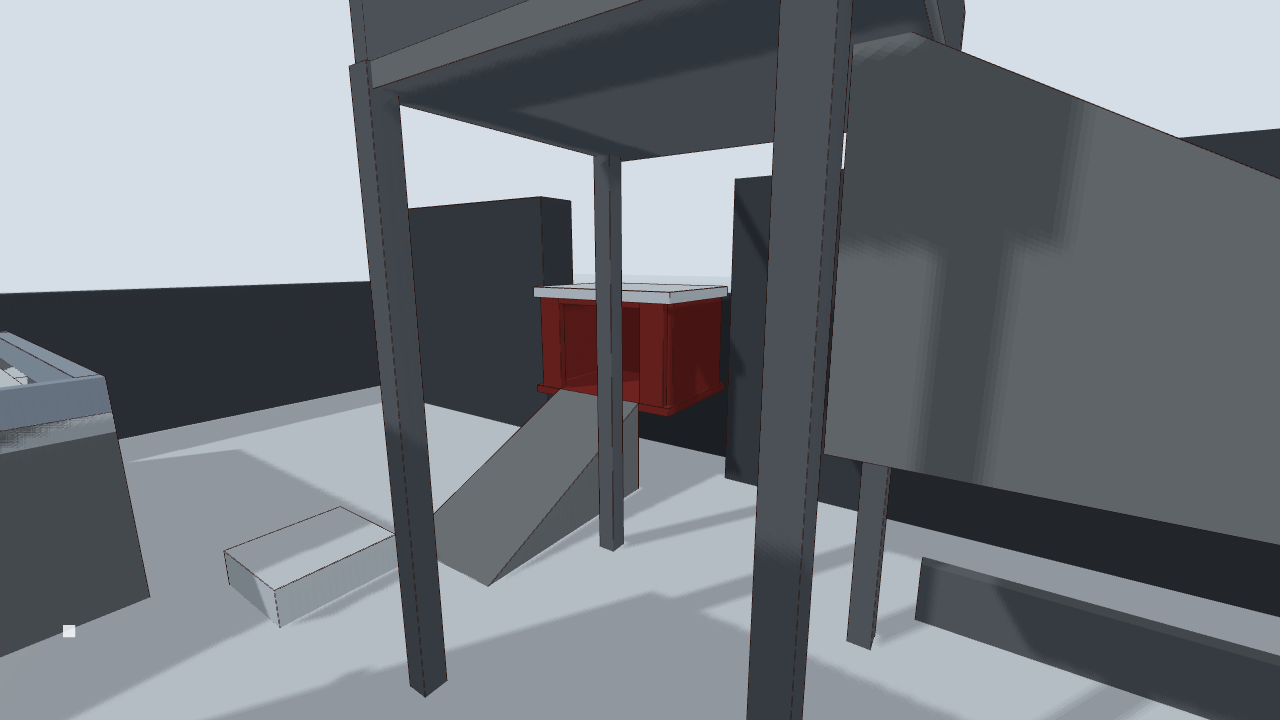
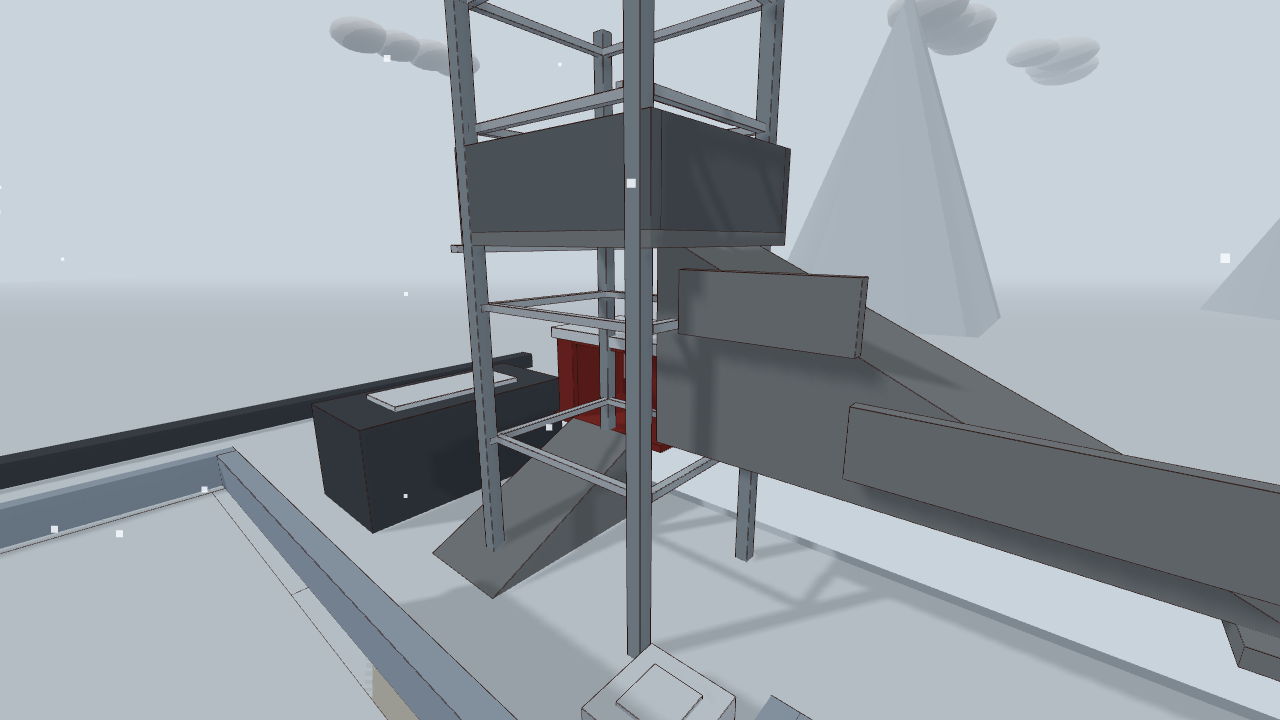
Fecha a rodada 3 do Posto Nevasca com o miolo denso da aérea.
O lab e a Sala Fria descem 12 m, as alas colam os telhados, o muro oeste some e a rampa da torre deixa de enxergar o sudeste.

diff --git a/maps.js b/maps.js
@@ -539,69 +539,97 @@ export const MAPS = [];
   };
   const C = (x, z, s = 1.3, h = 1.15, c = METAL2, y0 = 0) => boxes.push(crate(x, z, s, h, c, y0));
 
-  // encosta oeste: a borda curva até 5 m para fora, pico em z=-2 (y do dossiê = 62).
+  // encosta oeste: curva de até 5 m, pico em z=-2 (y do pesquisador = 62). Só a borda baixa é visível.
   const bulge = (z) => { const t = (z + 2) / 28; return (t <= -1 || t >= 1) ? 0 : 5 * (1 - t * t); };
-  const voids = [];
+  const voids = [], slopes = [];
   for (let z = -34; z < 28; z += 6) {
     const z1 = Math.min(28, z + 6);
     const edge = -24 - Math.max(bulge(z), bulge(z + 3), bulge(z1));
-    boxes.push(B(edge - 0.5, z, edge, z1, 1.15, ROCK)); // borda de 1,15 m
-    const gap = z1 > -8 && z < 4; // trecho em que dá para cair de verdade
-    if (!gap) boxes.push({ b: [edge - 0.4, 0, z, edge + 0.08, 4, z1], hide: true }); // colisor invisível de 4 m
-    const inner = edge + 3.5;
-    if (!(z >= 12 && z < 20)) boxes.push(B(inner, z, inner + 0.28, z1, 2.15, METAL2)); // fecha a corda reta
-    voids.push([-31, z, edge - 0.15, z1]);
+    boxes.push(B(edge - 0.55, z, edge + 0.15, z1, 1.15, '#7a828c')); // borda de rocha, 1,15 m, mais clara que o muro antigo
+    const gap = z1 > -8 && z < 4; // no pico dá para cair
+    if (!gap) boxes.push({ b: [edge - 0.35, 0, z, edge + 0.05, 4, z1], hide: true });
+    voids.push([-31, z, edge - 0.2, z1]);
+    slopes.push({ x0: edge - 16, y0: -30, z0: z, x1: edge - 0.15, y1: 0.15, z1, axis: 'x', dir: 1 });
   }
   voids.push([-31, 28, -24.2, 60], [-31, -60, -24.2, -34]);
-  boxes.push(B(26.4, -58, 30.6, 58, 4.5, ROCK)); // fecha o leste que o size maior abriu
-  boxes.push(B(-25.6, -2.15, -25.28, -1.85, 2.5, METAL2)); // mastro da placa PENHASCO
-  // rochas de 5 × 4 × 3,5 m: y45 → z=15, y92 → z=-32 (cortam a visada)
-  boxes.push(B(-27.2, 13, -16.2, 17, 4.2, ROCK), B(-26, -34, -16, -30, 4.2, ROCK));
-  boxes.push(B(-26, -10, -17, -6, 4.2, ROCK), B(-22, 46, -16.2, 49.2, 3.2, ROCK), B(-24, -54, -16.2, -50, 3.2, ROCK));
-  boxes.push(B(-12, 4, -5, 10, 2.8, ROCK), B(-22, 18, -15, 24, 2.8, ROCK), B(2, -38, 8, -33, 2.4, ROCK));
-  for (const z of [22, 8, -4, -16]) boxes.push(B(-23.2, z, -21.6, z + 1.4, 1.0, SNOW2)); // cobertura de 1 m a cada ~12–14 m
+  slopes.push({ x0: -31, y0: -30, z0: 28, x1: -24.3, y1: 0.15, z1: 58, axis: 'x', dir: 1 });
+  slopes.push({ x0: -31, y0: -30, z0: -58, x1: -24.3, y1: 0.15, z1: -34, axis: 'x', dir: 1 });
+  boxes.push(B(26.6, -58, 30.5, 58, 1.15, ROCK)); // leste: borda baixa, não um muro
+  // mastro da placa, na borda do pico (edge em z=-2 é -29)
+  boxes.push(B(-28.85, -2.2, -28.55, -1.8, 2.55, METAL));
+  const rock = (x0, z0, x1, z1, h) => {
+    const cx = (x0 + x1) / 2, cz = (z0 + z1) / 2, sx = (x1 - x0) / 2, sz = (z1 - z0) / 2;
+    boxes.push(B(x0, z0, x1, z1, Math.max(3.05, h * 0.72), ROCK));
+    boxes.push(B(cx - sx * 0.7, cz - sz * 0.7, cx + sx * 0.7, cz + sz * 0.7, h * 0.32, '#5c636c', h * 0.5));
+    boxes.push(B(cx - sx * 0.4, cz - sz * 0.4, cx + sx * 0.4, cz + sz * 0.4, h * 0.2, '#6a7078', h * 0.78));
+    boxes.push(B(cx - sx * 0.62, cz - sz * 0.55, cx + sx * 0.62, cz + sz * 0.55, 0.32, SNOW, h * 0.9));
+  };
+  rock(-27.2, 13, -16.2, 17, 4.2); rock(-26, -34, -12, -30, 4.2);
+  rock(-26, -10, -17, -6, 4.2); rock(-24, 48, -17, 51.5, 3.2); rock(-24, -54, -16.5, -50, 3.2);
+  rock(-14, 2, -6, 8, 3.2); rock(-24, 16, -17.2, 22, 3.4); rock(-11, -14, -3, -8, 3.4);
+  boxes.push(B(12.4, -15.6, 17.4, -10.8, 4.5, ROCK), B(13.2, -14.8, 16.5, -11.6, 0.35, SNOW, 4.3));
+  boxes.push(B(-5.4, -1, -2.35, 7, 4.0, CONC)); // ala oeste da Sala Fria, corta a diagonal pro sul
+  for (const z of [24, 10, -4, -18]) boxes.push(B(-23.4, z, -21.8, z + 1.5, 1.0, SNOW));
 
-  // lab norte (spawn), 1 andar, portas pro pátio
-  boxes.push(...building(-14, 48, 10, 58, { col, floors: 1, H: 3.5, parapet: 0.6,
-    ops: [{ s: 'n', a: -8, b: -5 }, { s: 'n', a: 2, b: 5.2 }, { s: 's', a: -2, b: 1.2 }, { s: 'e', a: 50, b: 53 },
-      { s: 'n', a: -12, b: -9.5, k: 'win', lo: 1.05, hi: 2.15 }, { s: 'w', a: 50, b: 53.2, k: 'win', lo: 1.05, hi: 2.1 }],
-    inner: [{ axis: 'x', s0: -13.4, s1: 9.4, line: 53.2, ops: [{ a: -2.2, b: 1.2 }] }] }));
-  // pátio entre o lab (z≥48) e a Sala Fria (z≤28): os dois prédios do meio, corredor de 3,6 m.
-  // O antigo "prédio do meio" 14×12 era x −12…2, z 33…45 — na vista de cima parecia parte do lab. Agora é o bloco oeste.
-  boxes.push(...building(-16, 31, -2, 43, { col, floors: 2, H, parapet: 1.7,
-    ops: [{ s: 'n', a: -10, b: -6.4 }, { s: 's', a: -12, b: -8.4 }, { s: 'e', a: 34, b: 37.6 }, { s: 'w', a: 36, b: 39.4 },
-      { s: 'e', a: 38, b: 41.5, f: 1, k: 'win', lo: 0.85, hi: 2.05 }],
-    stairs: [{ f: 0, r: [-13.5, 33.2, -6.8, 36.2], axis: 'x', dir: 1 }] }));
-  boxes.push(...building(1.6, 30, 19.6, 44, { col: { ...col, wall: CONC, wall2: METAL }, floors: 2, H, parapet: 1.7,
-    ops: [{ s: 'n', a: 6, b: 9.6, k: 'wide' }, { s: 's', a: 8, b: 11.6 }, { s: 'w', a: 34, b: 37.6 }, { s: 'e', a: 36, b: 39.4 },
+  // lab: x −14…10, z 36…46. No eixo do pesquisador (y = 60 − z) isso é y 14…24, x 12…36.
+  boxes.push(...building(-14, 36, 10, 46, { col: { ...col, wall: CONC, wall2: '#c8c2b6' }, floors: 1, H: 3.5, parapet: 0.6,
+    ops: [{ s: 'n', a: -8, b: -5 }, { s: 'n', a: 2, b: 5.2 }, { s: 's', a: -2, b: 1.2 }, { s: 'e', a: 38, b: 41 },
+      { s: 'n', a: -12, b: -9.5, k: 'win', lo: 1.05, hi: 2.15 }, { s: 'w', a: 38, b: 41.2, k: 'win', lo: 1.05, hi: 2.1 }],
+    inner: [{ axis: 'x', s0: -13.4, s1: 9.4, line: 41.2, ops: [{ a: -2.2, b: 1.2 }] }] }));
+  // prédios do meio, 12 m ao sul da rodada 2. Corredor de 3,6 m (x −2…1,6).
+  // Oeste: x −16…−2, z 19…31 (14×12 m), 2º piso a +3,4 m. Leste: x 1,6…19,6, z 18…32 (18×14 m).
+  boxes.push(...building(-16, 19, -2, 31, { col: { ...col, wall: '#c4bfb4', wall2: CONC }, floors: 2, H, parapet: 1.7,
+    ops: [{ s: 'n', a: -10, b: -6.4 }, { s: 's', a: -12, b: -8.4 }, { s: 'e', a: 22, b: 25.6 }, { s: 'w', a: 24, b: 27.4 },
+      { s: 'e', a: 26, b: 29.5, f: 1, k: 'win', lo: 0.85, hi: 2.05 }, { s: 'n', a: -10, b: -6, f: 1, k: 'win', lo: 0.85, hi: 2.05 }],
+    stairs: [{ f: 0, r: [-13.5, 21.2, -6.8, 24.2], axis: 'x', dir: 1 }] }));
+  boxes.push(...building(1.6, 18, 19.6, 32, { col: { ...col, wall: '#d4cfc4', wall2: CONC }, floors: 2, H, parapet: 1.7,
+    ops: [{ s: 'n', a: 6, b: 9.6, k: 'wide' }, { s: 's', a: 8, b: 11.6 }, { s: 'w', a: 22, b: 25.6 }, { s: 'e', a: 24, b: 27.4 },
       { s: 's', a: 14, b: 17.5, f: 1, k: 'win', lo: 0.85, hi: 2.05 }],
-    stairs: [{ f: 0, r: [4, 32.2, 11.2, 35.4], axis: 'x', dir: 1 }, { f: 1, r: [4, 38, 11.2, 41.2], axis: 'x', dir: 1 }] }));
-  C(8.5, 40, 1.6, 1.1, '#6E7378', H); C(14, 36, 1.2, 0.9, RUST);
+    stairs: [{ f: 0, r: [4, 20.2, 11.2, 23.4], axis: 'x', dir: 1 }, { f: 1, r: [4, 26, 11.2, 29.2], axis: 'x', dir: 1 }] }));
+  C(8.5, 28, 1.6, 1.1, '#6E7378', H); C(14, 24, 1.2, 0.9, RUST);
+  for (let z = 20; z < 30; z += 1.6) boxes.push(B(-16.15, z, -15.95, z + 0.1, 3.2, METAL2, 0.15));
+  // alas que colam o lab nos prédios do meio: o miolo lê como um bloco, o corredor central fica aberto
+  boxes.push(...building(-16, 31.3, -4, 35.7, { col: { ...col, wall: CONC, wall2: '#c8c2b6' }, floors: 1, H: 3.2, parapet: 0.45,
+    ops: [{ s: 'n', a: -12, b: -8.4 }, { s: 's', a: -12, b: -8.4 }, { s: 'e', a: 32.2, b: 34.8 }] }));
+  boxes.push(...building(4, 32.2, 18, 35.8, { col: { ...col, wall: '#d4cfc4', wall2: CONC }, floors: 1, H: 3.2, parapet: 0.45,
+    ops: [{ s: 'n', a: 8, b: 12 }, { s: 's', a: 8, b: 12 }] }));
+  boxes.push(B(-12, 16.05, 16, 17.9, 0.32, SNOW, 3.15)); // telhado-ponte entre o bloco leste e a Sala Fria
 
   // SALA FRIA / control room: 22 × 22 m, mezanino a +3,4 m, átrio aberto, 5 portas
-  boxes.push(...building(-2, 6, 20, 28, { col: { ...col, wall: CONC, wall2: METAL, inner: '#C4BFB4' }, floors: 2, H, roof: false,
-    ops: [{ s: 'w', a: 14.2, b: 17.8 }, { s: 'e', a: 12.2, b: 15.8 }, { s: 'n', a: 6, b: 9.4 }, { s: 's', a: 4, b: 7.6 }, { s: 's', a: 13, b: 16.4 },
+  // Sala Fria: x −2…20, z −6…16 → y do pesquisador 44…66, x 24…46.
+  boxes.push(...building(-2, -6, 20, 16, { col: { ...col, wall: CONC, wall2: '#c8c2b6', inner: '#C4BFB4' }, floors: 2, H, roof: false,
+    ops: [{ s: 'w', a: 2.2, b: 5.8 }, { s: 'e', a: 0.2, b: 3.8 }, { s: 'n', a: 6, b: 9.4 }, { s: 's', a: 4, b: 7.6 }, { s: 's', a: 13, b: 16.4 },
       { s: 's', a: 8.2, b: 12.2, k: 'win', lo: 1.0, hi: 2.15 },
       { s: 's', a: 8, b: 12.4, f: 1, k: 'win', lo: 0.75, hi: 2.15 }, { s: 'n', a: 8, b: 12.4, f: 1, k: 'win', lo: 0.75, hi: 2.15 },
-      { s: 'w', a: 8.5, b: 12, f: 1, k: 'win', lo: 0.8, hi: 2.05 }, { s: 'e', a: 20, b: 24, f: 1, k: 'win', lo: 0.8, hi: 2.05 }],
-    stairs: [{ f: 0, r: [1.6, 21.4, 10.2, 24.3], axis: 'x', dir: 1 }],
-    floorHoles: { 1: [[-1.4, 6.6, 15.4, 20.4]] } }));
-  boxes.push(...slab(-2, 6, 20, 28, 2 * H, 0.35, SNOW, [[5, 11, 13, 23]])); // vão da claraboia 8 × 12 m
-  // guarda-corpo de 1 m em volta do átrio
-  boxes.push(B(-1.5, 20.28, 15.2, 20.55, 1.0, METAL2, H), B(-1.5, 6.55, 15.2, 6.82, 1.0, METAL2, H));
-  boxes.push(B(15.22, 6.8, 15.5, 20.4, 1.0, METAL2, H), B(-1.55, 6.8, -1.28, 20.4, 1.0, METAL2, H));
-  // consoles (1,1 m) e arquivos de aço (2 m)
-  boxes.push(B(2.2, 12.4, 7.4, 13.8, 1.1, '#4d5963'), B(2.2, 16.2, 7.4, 17.6, 1.1, '#4d5963'));
-  for (const [x, z] of [[16.2, 8.2], [16.2, 22.4], [16.2, 24.6], [-0.4, 8.4], [3.2, 8.4], [3.2, 24.2]]) boxes.push(B(x, z, x + 0.7, z + 1.4, 2.0, '#9aa3aa'));
-  C(11.2, 25.2, 1.3, 1.05, METAL, H);
-  // chapa: frisos verticais na face norte da Sala Fria
-  for (let x = -1; x < 19; x += 1.7) boxes.push(B(x, 27.85, x + 0.12, 28.15, 3.1, METAL2, 0.2));
+      { s: 'w', a: -3.5, b: 0, f: 1, k: 'win', lo: 0.8, hi: 2.05 }, { s: 'e', a: 8, b: 12, f: 1, k: 'win', lo: 0.8, hi: 2.05 }],
+    stairs: [{ f: 0, r: [1.6, 9.2, 10.2, 12.2], axis: 'x', dir: 1 }],
+    floorHoles: { 1: [[-1.4, -5.4, 15.4, 8.4]] } }));
+  boxes.push(...slab(-2, -6, 20, 16, 2 * H, 0.35, SNOW, [[5, -1, 13, 13]]));
+  // guarda-corpo tubular de 1 m no mezanino
+  const tube = (x0, z0, x1, z1) => {
+    boxes.push(B(Math.min(x0, x1), Math.min(z0, z1), Math.max(x0, x1), Math.max(z0, z1), 0.07, METAL, H + 0.9));
+    boxes.push(B(Math.min(x0, x1), Math.min(z0, z1), Math.max(x0, x1), Math.max(z0, z1), 0.05, METAL, H + 0.42));
+  };
+  tube(-1.3, 8.22, 15.1, 8.4); tube(-1.3, -5.45, 15.1, -5.28);
+  tube(15.15, -5.3, 15.32, 8.3); tube(-1.55, -5.3, -1.38, 8.3);
+  for (let x = -1; x <= 14.6; x += 1.8) { boxes.push(B(x, 8.18, x + 0.08, 8.44, 1.0, METAL, H)); boxes.push(B(x, -5.48, x + 0.08, -5.22, 1.0, METAL, H)); }
+  for (let z = -5; z <= 8; z += 1.8) { boxes.push(B(15.12, z, 15.36, z + 0.08, 1.0, METAL, H)); boxes.push(B(-1.58, z, -1.34, z + 0.08, 1.0, METAL, H)); }
+  // consoles com tampo inclinado e telas
+  boxes.push(R(2.4, 0.6, 7.2, 2.2, 0.55, 1.15, 'z', 1, '#3e4852'), R(2.4, 4.2, 7.2, 5.8, 0.55, 1.15, 'z', 1, '#3e4852'));
+  for (const [x, z] of [[3.1, 1.9], [4.6, 1.9], [6.1, 1.9], [3.1, 5.5], [4.6, 5.5], [6.1, 5.5]]) boxes.push(B(x, z, x + 0.7, z + 0.08, 0.42, '#5ee0c8', 0.78));
+  for (const [x, z] of [[16.3, -3.6], [16.3, -1.4], [16.3, 10.2], [16.3, 12.4], [-0.5, -3.2], [3.4, 12.6]]) {
+    boxes.push(B(x, z, x + 0.65, z + 1.35, 2.0, '#8b949c'));
+    boxes.push(B(x + 0.08, z + 0.15, x + 0.57, z + 1.2, 0.06, '#d5dbe0', 0.7), B(x + 0.08, z + 0.15, x + 0.57, z + 1.2, 0.06, '#d5dbe0', 1.35));
+  }
+  C(11.2, 13.2, 1.3, 1.05, METAL, H);
+  for (let x = -1; x < 19; x += 1.7) boxes.push(B(x, 15.85, x + 0.12, 16.12, 3.1, METAL2, 0.2));
 
   // salas estreitas a leste (CQB), parede oeste é a da sala fria
-  boxes.push(...building(20, 8, 26, 32, { col, floors: 1, H: 3.3, parapet: 0.4, noWall: ['w0'],
-    ops: [{ s: 'e', a: 12, b: 15 }, { s: 'e', a: 22, b: 25 }, { s: 's', a: 23.4, b: 25.6 }, { s: 'n', a: 20.6, b: 22.4 }],
-    inner: [{ axis: 'x', s0: 20.4, s1: 25.6, line: 18, ops: [{ a: 23.2, b: 25.4 }] }, { axis: 'x', s0: 20.4, s1: 25.6, line: 25, ops: [{ a: 20.8, b: 22.6 }] }] }));
-  boxes.push(B(21.4, 40, 23.2, 44, 2.6, ROCK), B(21.4, -8, 23.2, -4, 2.6, ROCK), B(21.4, -42, 23.2, -38, 2.6, ROCK));
+  boxes.push(...building(20, -4, 26, 20, { col, floors: 1, H: 3.3, parapet: 0.4, noWall: ['w0'],
+    ops: [{ s: 'e', a: 0, b: 3 }, { s: 'e', a: 10, b: 13 }, { s: 's', a: 23.4, b: 25.6 }, { s: 'n', a: 20.6, b: 22.4 }],
+    inner: [{ axis: 'x', s0: 20.4, s1: 25.6, line: 6, ops: [{ a: 23.2, b: 25.4 }] }, { axis: 'x', s0: 20.4, s1: 25.6, line: 13, ops: [{ a: 20.8, b: 22.6 }] }] }));
+  boxes.push(B(21.4, 28, 23.2, 32, 2.6, ROCK), B(21.4, -20, 23.2, -16, 2.6, ROCK), B(21.4, -42, 23.2, -38, 2.6, ROCK));
+  boxes.push(B(24.6, 24, 30.2, 28.5, 3.1, ROCK), B(24.6, -10, 30.2, -5.5, 3.1, ROCK), B(24.6, -36, 30.2, -31.5, 3.1, ROCK), B(24.6, 48, 30.2, 52, 3.1, ROCK));
 
   // galpão sul + rampa pro telhado (antena)
   boxes.push(...building(-12, -46, 12, -30, { col: { ...col, wall: CONC }, floors: 1, H: 3.6, parapet: 1.15,
@@ -609,21 +637,34 @@ export const MAPS = [];
     roofGaps: [{ s: 'n', a: -2.6, b: 2.6 }] }));
   boxes.push(B(-2.7, -49.4, 2.7, -46, 0.28, SNOW, 3.32), R(-2.2, -55.2, 2.2, -49.2, 0, 3.6, 'z', 1, METAL));
   boxes.push(B(3.55, -38.45, 3.95, -38.05, 6.2, RUST, 3.6), B(3.2, -39.3, 4.3, -38.9, 0.35, RUST, 9.5));
-  // pátio sul a −1,5 m + escada metálica
-  boxes.push(B(-14, -26, 18, -6, 0.3, SNOW2, -1.8));
-  boxes.push(R(-1.6, -28.4, 1.6, -22.2, -1.5, 0, 'z', -1, METAL));
-  boxes.push(B(-1.9, -28.4, -1.62, -22.2, 1.0, METAL2, -1.2), B(1.62, -28.4, 1.9, -22.2, 1.0, METAL2, -1.2));
+  for (let x = -11; x < 11; x += 1.5) boxes.push(B(x, -30.15, x + 0.1, -29.9, 2.4, METAL2, 0.4));
+  // pátio sul a −1,5 m. Lábio na borda norte e escada metálica vindo do galpão.
+  boxes.push(B(-14, -26, 18, -6, 0.3, '#c5ced6', -1.8));
+  boxes.push(B(-14, -6.35, 18, -6, 0.55, ROCK));
+  boxes.push(R(-2.2, -29.2, 2.2, -23.4, -1.5, 0, 'z', -1, '#d5dbe2'));
+  boxes.push(B(-2.45, -29.2, -2.15, -23.4, 1.05, METAL, -1.35), B(2.15, -29.2, 2.45, -23.4, 1.05, METAL, -1.35));
+  boxes.push(B(-2.4, -29.2, -2.22, -23.4, 0.08, METAL2, -0.35), B(2.22, -29.2, 2.4, -23.4, 0.08, METAL2, -0.35));
 
   // torre treliçada (+8,1 m), a oeste do bloco do meio, fora do corredor
   boxes.push(R(-22.4, 22, -19.6, 30, 0, 4.05, 'z', 1, METAL), B(-22.8, 29.4, -19.2, 32.2, 0.24, METAL, 3.81));
   boxes.push(R(-22.4, 31.6, -19.6, 40, 4.05, 8.15, 'z', 1, METAL));
   boxes.push(B(-23.2, 39.2, -18.4, 44.6, 0.28, METAL, 7.87));
-  for (const [x, z] of [[-22.9, 39.4], [-18.7, 39.4], [-22.9, 44.2], [-18.7, 44.2]]) {
-    boxes.push(B(x, z, x + 0.28, z + 0.28, 8.15, METAL2));
-    boxes.push(B(x + 0.05, z, x + 0.22, z + 4.6, 0.16, METAL2, 2.4), B(x, z + 0.05, x + 4.2, z + 0.2, 0.16, METAL2, 4.6));
+  for (const [x, z] of [[-22.9, 39.4], [-18.7, 39.4], [-22.9, 44.2], [-18.7, 44.2]]) boxes.push(B(x, z, x + 0.32, z + 0.32, 13.2, '#9aa3aa'));
+  for (const y of [3.2, 6.4, 10.2, 12.6]) {
+    boxes.push(B(-22.9, 39.5, -18.5, 39.68, 0.16, '#c5ccd2', y), B(-22.9, 44.2, -18.5, 44.38, 0.16, '#c5ccd2', y));
+    boxes.push(B(-22.75, 39.5, -22.58, 44.4, 0.16, '#c5ccd2', y), B(-18.85, 39.5, -18.68, 44.4, 0.16, '#c5ccd2', y));
   }
-  boxes.push(B(-23.2, 39.2, -18.4, 39.45, 1.75, METAL2, 8.15), B(-23.2, 44.35, -21.2, 44.6, 1.75, METAL2, 8.15), B(-20.2, 44.35, -18.4, 44.6, 1.75, METAL2, 8.15));
+  boxes.push(B(-23.2, 39.2, -18.4, 39.45, 1.75, METAL2, 8.15), B(-23.2, 44.35, -21.6, 44.6, 1.75, METAL2, 8.15), B(-19.6, 44.35, -18.4, 44.6, 1.75, METAL2, 8.15));
   boxes.push(B(-23.2, 39.2, -22.95, 44.6, 1.75, METAL2, 8.15), B(-18.65, 39.2, -18.4, 44.6, 1.75, METAL2, 8.15));
+  // painel cego de 1,1 m no flanco leste da rampa (olha para SE). Janela de 2 m no norte, entre x −21,6 e −19,6.
+  boxes.push(B(-19.42, 22, -19.18, 26.2, 1.1, METAL, 0.5), B(-19.42, 26.2, -19.18, 30, 1.1, METAL, 2.3));
+  boxes.push(B(-19.42, 32, -19.18, 36.2, 1.1, METAL, 4.6), B(-19.42, 36.2, -19.18, 39.2, 1.1, METAL, 6.4));
+  // bloqueador alto ~30 m ao sul da rampa, no caminho da visada para o sudeste
+  boxes.push(B(-10.4, 0.2, -9.9, 4.6, 6.6, METAL2), B(-12.2, 1.4, -10.6, 4.8, 0.18, METAL, 6.15));
+  boxes.push(B(-9.2, 2.2, -8.7, 5.4, 6.6, METAL2));
+  // antena no pátio sul: corta a visada do telhado do galpão para o 2º piso do bloco oeste
+  boxes.push(B(-6.3, -16.4, -5.9, -15.5, 7.6, METAL2, -1.5), B(-4.3, -16.4, -3.9, -15.5, 7.6, METAL2, -1.5));
+  boxes.push(B(-6.4, -16.5, -3.8, -15.4, 1.3, METAL, 4.5));
 
   // teleférico no rasgo do penhasco (piso a +2,37 m)
   const gy = 2.37;
@@ -636,63 +677,64 @@ export const MAPS = [];
   boxes.push(R(-22.65, 43.15, -17.6, 45.85, 0, gy, 'x', -1, METAL));
   boxes.push({ wp: [-21.3, gy, 44.5] }, { wp: [-24.2, gy, 44.5] }, { wp: [-20.6, 8.15, 42] }, { wp: [-21, 4.05, 31] });
   // dois cabos: cabine → torre → fora do mapa, para a neblina
-  boxes.push(B(-24.4, 43.6, -19.2, 43.78, 0.08, '#3a4248', 8.4), B(-24.4, 45.3, -19.2, 45.48, 0.08, '#3a4248', 7.6));
-  boxes.push(B(-30.5, 43.6, -24.2, 43.78, 0.08, '#3a4248', 11.5), B(-30.5, 45.3, -24.2, 45.48, 0.08, '#3a4248', 12.2));
+  boxes.push(B(-24.6, 43.45, -18.6, 43.72, 0.16, '#c5ccd2', 8.55), B(-24.6, 45.15, -18.6, 45.42, 0.16, '#c5ccd2', 7.7));
+  boxes.push(B(-31.2, 43.45, -24.4, 43.72, 0.16, '#c5ccd2', 11.2), B(-31.2, 45.15, -24.4, 45.42, 0.16, '#c5ccd2', 12.4));
 
   // montes de neve (0,55–1,0 m) e caixotes de cobertura — pátio norte, vão central, pátio sul
-  for (const [x, z, s, h] of [[-16, 46.2, 2.1, 0.7], [-14, 30.2, 1.8, 0.7], [5.2, 30.6, 1.7, 0.8], [14.2, 31.2, 2, 0.85],
-    [-16, -4, 2, 0.95], [-13.2, 1.4, 1.5, 0.85], [2.6, -6.6, 1.5, 0.9], [-6, -8, 1.6, 0.7], [10, -6, 1.6, 0.9], [18, -4, 1.6, 0.75],
-    [-6, 2.2, 2, 0.8], [14, 3.2, 1.8, 0.7], [22.5, 4.2, 1.5, 0.65],
-    [-19.4, 8.2, 1.5, 0.7], [0, 3.4, 1.6, 0.7], [-4, -3, 1.6, 1.15]]) mound(x, z, s, h);
+  for (const [x, z, s, h] of [[-17.4, 22, 1.8, 1], [-17.4, 27, 1.6, 0.9], [-17.2, 38, 1.7, 1], [-3.4, 33.4, 1.6, 1],
+    [12, 38.5, 1.8, 1], [-18.6, 8, 1.5, 1], [-18.4, -2, 1.6, 0.95], [22.5, -8, 1.5, 1]]) mound(x, z, s, h);
   C(-12.4, 16.2, 1.4, 1.2, METAL); C(-8, -20, 1.5, 1.3, '#6E5438', -1.5); C(14, -20, 1.3, 1.15, METAL2, -1.5); C(-16, -21, 1.6, 1.3, METAL); C(-18.6, 10, 1.2, 1.05, METAL);
   for (const [x, z, s, h] of [[-6, -14, 1.6, 0.8], [6, -18, 1.6, 0.7], [14, -16, 1.5, 1.2], [16, -22, 1.4, 1.15]]) boxes.push(B(x - s / 2, z - s / 2, x + s / 2, z + s / 2, h, SNOW, -1.5));
 
   // estalactites de gelo nos beirais (acima da cabeça: y ≥ 2,6)
-  for (const [x, z, y] of [[-2, 18, 2.7], [20, 18, 2.7], [-12, 39, 6.4], [16, 38, 6.4], [-10, -30, 3.2], [8, -30, 3.2], [-14, 54, 3.1], [4, 54, 3.1], [-8, 43, 6.4], [12, 44, 6.4]]) boxes.push(B(x - 0.08, z - 0.08, x + 0.08, z + 0.08, 0.65, ICE, y));
-  boxes.push(B(-1.15, -23, -0.65, -12, 0.04, '#6e767e', -1.46), B(2.15, -23, 2.65, -13, 0.04, '#6e767e', -1.46));
+  for (const [x, z, y] of [[-14, 46, 3.2], [4, 46, 3.2], [-16, 31, 6.5], [18, 32, 6.5], [-2, 16, 6.5], [18, 16, 6.5], [-10, -30, 3.3], [8, -30, 3.3], [0, -46, 3.3]]) boxes.push(B(x - 0.1, z - 0.1, x + 0.1, z + 0.1, 0.7, ICE, y));
 
   const props = [
-    { t: 'dome', x: 15.6, z: 52.2, r: 2.15, h: 1.25, c: CONC, cap: SNOW },
+    { t: 'dome', x: 2, y: 3.55, z: 41, r: 1.7, h: 1.05, c: CONC, cap: SNOW },
     { t: 'dome', x: 6.5, z: 1.6, r: 1.7, h: 1.05, c: METAL, cap: SNOW },
     { t: 'tank', x: -8.2, z: -16.5, y: -1.5, r: 0.75, h: 2.2, c: METAL, cap: SNOW, band: RUST },
     { t: 'tank', x: 16.5, z: -10, y: -1.5, r: 0.85, h: 1.8, c: RUST, cap: SNOW2 },
     { t: 'truck', x: 1.5, z: -18.5, y: -1.5, c: '#4A4E54' },
     { t: 'pine', x: -21.2, z: -56, s: 1.15 }, { t: 'pine', x: 21.2, z: 55.2, s: 1.25 }, { t: 'pine', x: 23.2, z: 2.2, s: 1.05 },
     { t: 'pine', x: 22.4, z: -27, s: 1.1 }, { t: 'pine', x: -16.2, z: 26.5, s: 0.95 }, { t: 'pine', x: 18.5, z: -52, s: 1.2 },
-    { t: 'sign', x: 6, y: 4.5, z: 28.35, w: 6.2, h: 1.35, rot: 0, text: 'SALA FRIA', bg: RUST, fg: '#F2D9A0' },
-    { t: 'sign', x: -25.4, y: 2.6, z: -2, w: 2.4, h: 1.15, rot: Math.PI / 2, text: 'PENHASCO', bg: RUST, fg: '#fff' },
+    { t: 'sign', x: 6, y: 4.5, z: 16.35, w: 6.2, h: 1.35, rot: 0, text: 'SALA FRIA', bg: RUST, fg: '#F2D9A0' },
+    { t: 'sign', x: -28.7, y: 2.45, z: -2, w: 2.3, h: 1.05, rot: Math.PI / 2, text: 'PENHASCO', bg: RUST, fg: '#fff' },
     { t: 'sign', x: 0, y: 3.2, z: -29.6, w: 5.5, h: 1.2, rot: Math.PI, text: 'GALPÃO', bg: '#3E4248', fg: SNOW },
-    { t: 'sign', x: 9, y: 5.3, z: 27.2, w: 5.4, h: 1.05, rot: Math.PI, text: '12:00  09:40  18:10', bg: '#1c242c', fg: '#F2D9A0' },
-    { t: 'pane', x0: 5.2, z0: 11.2, x1: 8.8, z1: 16.6, y: 6.78, axis: 'y', c: 0xBFDDEB, o: 0.38 },
-    { t: 'pane', x0: 9.2, z0: 11.2, x1: 12.8, z1: 16.6, y: 6.78, axis: 'y', c: 0xBFDDEB, o: 0.38 },
-    { t: 'pane', x0: 5.2, z0: 17.2, x1: 8.8, z1: 22.6, y: 6.78, axis: 'y', c: 0xBFDDEB, o: 0.38 },
-    { t: 'pane', x0: 9.2, z0: 17.2, x1: 12.8, z1: 22.6, y: 6.78, axis: 'y', c: 0xBFDDEB, o: 0.38 },
+    { t: 'sign', x: 4, y: 5.2, z: 15.15, w: 3.2, h: 0.7, rot: Math.PI, text: '09:40', bg: '#1c242c', fg: '#F2D9A0' },
+    { t: 'clock', x: 8.2, y: 5.2, z: 15.15, w: 2.4, h: 0.7, rot: Math.PI },
+    { t: 'sign', x: 12.2, y: 5.2, z: 15.15, w: 3.2, h: 0.7, rot: Math.PI, text: '18:10', bg: '#1c242c', fg: '#F2D9A0' },
+    { t: 'pane', x0: 5.2, z0: -0.8, x1: 8.8, z1: 4.6, y: 6.78, axis: 'y', c: 0xBFDDEB, o: 0.38 },
+    { t: 'pane', x0: 9.2, z0: -0.8, x1: 12.8, z1: 4.6, y: 6.78, axis: 'y', c: 0xBFDDEB, o: 0.38 },
+    { t: 'pane', x0: 5.2, z0: 5.2, x1: 8.8, z1: 10.6, y: 6.78, axis: 'y', c: 0xBFDDEB, o: 0.38 },
+    { t: 'pane', x0: 9.2, z0: 5.2, x1: 12.8, z1: 10.6, y: 6.78, axis: 'y', c: 0xBFDDEB, o: 0.38 },
     { t: 'pane', x0: -25.5, z0: 43.3, x1: -25.5, z1: 46.2, y: 3.7, h: 1.3, axis: 'z', c: 0xBFDDEB, o: 0.4 },
     { t: 'grate', x0: -26.5, z0: -8, x1: -22.5, z1: 8, y: 0.04 },
     { t: 'dish', x: -6, y: 4.3, z: -38, r: 1.15 }, { t: 'dish', x: 8, y: 4.4, z: -34, r: 0.9 },
-    { t: 'heli', x: 48, y: 16, z: -8, rot: 0.6 },
-    { t: 'pine', x: -28, z: -6, y: -16, s: 1.4 }, { t: 'pine', x: -27, z: 8, y: -18, s: 1.1 }, { t: 'pine', x: -29, z: -18, y: -14, s: 1.6 },
-    { t: 'keg', x: -0.2, z: 28.4 }, { t: 'keg', x: 8, z: 46.8 }, { t: 'keg', x: 21, z: 28 },
+    { t: 'heli', x: -62, y: 14, z: -24, rot: 0.4 },
+    { t: 'pine', x: -29.5, z: -2, y: -8, s: 1.5 }, { t: 'pine', x: -30, z: 10, y: -12, s: 1.2 }, { t: 'pine', x: -29.2, z: -16, y: -10, s: 1.35 },
+    { t: 'decal', x0: -0.9, z0: -24, x1: -0.35, z1: -12, y: -1.42, c: 0x3e464c },
+    { t: 'decal', x0: 1.7, z0: -24, x1: 2.25, z1: -13, y: -1.42, c: 0x3e464c },
+    { t: 'keg', x: -18.5, z: 14 }, { t: 'keg', x: 22, z: 30 }, { t: 'keg', x: 22, z: 14 },
     { t: 'keg', x: -8.1, z: -14, y: -1.5 }, { t: 'keg', x: 6, z: -16, y: -1.5 }, { t: 'keg', x: -19.3, z: 11 },
   ];
-  const roofs = [[-14, 48, 10, 58, 3.5], [-16, 31, -2, 43, 6.8], [1.6, 30, 19.6, 44, 6.8],
-    [-2, 6, 20, 28, 6.8],
-    [20, 8, 26, 32, 3.3], [-12, -46, 12, -30, 3.6], [-25.9, 42.2, -22.6, 46.8, 5.25], [-23.2, 39.2, -18.4, 44.6, 8.15]];
+  const roofs = [[-14, 36, 10, 46, 3.5], [-16, 19, -2, 31, 6.8], [1.6, 18, 19.6, 32, 6.8],
+    [-2, -6, 20, 16, 6.8],
+    [20, -4, 26, 20, 3.3], [-12, -46, 12, -30, 3.6], [-25.9, 42.2, -22.6, 46.8, 5.25], [-23.2, 39.2, -18.4, 44.6, 8.15]];
   MAPS.push({
     id: 'posto-nevasca', name: 'Posto Nevasca',
     desc: 'Base no cume: sala fria com mezanino e claraboia, passarela curva no penhasco e salas estreitas a leste.',
-    size: [31, 60], wallH: 1.2, wallColor: [ROCK, ROCK], openMax: 8, laneMin: 40,
-    fall: { y: -6, rects: voids, basins: [[-14, -26, 18, -6, -1.5]], haze: true, pit: '#d5dee6', floor: -30 },
+    size: [31, 60], wallH: 0.85, wallColor: [ROCK, ROCK], openMax: 8.5, laneMin: 40,
+    fall: { y: -6, rects: voids, slopes, openWest: true, basins: [[-14, -26, 18, -6, -1.5]], haze: true, pit: '#c5d0d8', floor: -30, slopeColor: '#e7eef3' },
     palette: { sky: '#C9D3DC', fog: ['#C9D3DC', 40, 120], hemi: ['#e7eef3', '#8B98A6', 1.55], sun: ['#f4f7fa', 0.72], ground: SNOW, tiles: null, clouds: true, mountains: true,
-      lights: [['#F2D9A0', 4, 2.6, 14, 14, 11], ['#F2D9A0', 10, 2.6, 18, 14, 11], ['#F2D9A0', 6, 5.5, 22, 12, 9], ['#F2D9A0', 12, 5.5, 16, 12, 9], ['#F2D9A0', -8, 2.5, 36, 12, 10], ['#F2D9A0', 10, 2.5, 36, 12, 10]] },
+      lights: [['#F2D9A0', 8, 2.6, 2, 14, 11], ['#F2D9A0', 10, 2.6, 6, 14, 11], ['#F2D9A0', 6, 5.4, 10, 12, 9], ['#F2D9A0', 4, 5.4, 4, 12, 9], ['#F2D9A0', -8, 2.4, 24, 12, 10], ['#F2D9A0', 10, 2.4, 24, 12, 10], ['#F2D9A0', -1, 2.2, -31, 10, 8], ['#F2D9A0', 6, 2.2, -31, 10, 8]] },
     weather: { kind: 'snow', n: 1400, fall: 6.2, wind: [2.3, 0, 0.55], top: 34, color: 0xF7FBFF, size: 0.15, roofs },
     ...fin(boxes), props,
-    spawns: [[-6, 50], [2, 52], [22, 52], [-12, 46], [8, 29.2], [16, 46], [-8, -52], [0, -56], [8, -50], [-4, -58], [6, -44], [-14, -50]],
-    pickups: [['health', 8, 14], ['health', -10, 46], ['health', 10, -20, -1.5], ['health', 6, 50.5], ['health', -10, 38, H],
-      ['ammo', -26.4, -1], ['ammo', 23.6, 20], ['ammo', -5, 40, H], ['ammo', 0, -38, 3.6],
-      ['grenade', 8, 36], ['grenade', 8, -14, -1.5], ['grenade', 13.2, 23.4, H]],
-    showcase: [4, 0, 30.5], view: [-16, 1.6, 2, -0.35, -0.04],
-    test: { stairs: { from: [0.6, 0, 22.85], to: [11.4, H, 22.85], level: H }, roof: { from: [0, 0, -56.2], to: [0, 3.6, -38], level: 3.6 }, under: { from: [17.3, 0, 9.5], to: [17.3, 0, 16.5], ceil: 3.1 } },
+    spawns: [[-6, 40], [2, 38.5], [18, 44], [-0.2, 17.4], [15, 22], [14, 38], [-8, -52], [0, -56], [8, -50], [-4, -58], [6, -44], [-14, -50]],
+    pickups: [['health', 14, 4], ['health', -8, 40], ['health', 10, -20, -1.5], ['health', 2, 38.5], ['health', -5, 28, H],
+      ['ammo', -26.4, -1], ['ammo', 23.2, 8], ['ammo', -9, 27, H], ['ammo', 0, -38, 3.6],
+      ['grenade', 12, 26], ['grenade', 8, -14, -1.5], ['grenade', 14, 11, H]],
+    showcase: [4, 0, 6], view: [-16, 1.6, 2, -0.35, -0.04],
+    test: { stairs: { from: [0.6, 0, 10.7], to: [11.2, H, 10.7], level: H }, roof: { from: [0, 0, -56.2], to: [0, 3.6, -38], level: 3.6 }, under: { from: [17.3, 0, -2.5], to: [17.3, 0, 4.5], ceil: 3.1 } },
   });
 }
 

diff --git a/world.js b/world.js
@@ -53,6 +53,18 @@ function buildProp(p, ctx) {
       });
       m.position.set(p.x, p.y, p.z); m.rotation.y = p.rot || 0; group.add(m); break;
     }
+    case 'clock': { // relógio da partida: o canvas é redesenhado no loop
+      const canvas = document.createElement('canvas'); canvas.width = 256; canvas.height = 64;
+      const tex = new THREE.CanvasTexture(canvas);
+      const mesh = new THREE.Mesh(new THREE.PlaneGeometry(p.w, p.h), new THREE.MeshBasicMaterial({ map: tex, toneMapped: false }));
+      mesh.position.set(p.x, p.y, p.z); mesh.rotation.y = p.rot || 0;
+      mesh.userData.clock = { canvas, tex, ctx: canvas.getContext('2d') };
+      (group.userData.clocks = group.userData.clocks || []).push(mesh); group.add(mesh); break;
+    }
+    case 'decal': {
+      const m = new THREE.Mesh(new THREE.PlaneGeometry(Math.abs(p.x1 - p.x0), Math.abs(p.z1 - p.z0)), new THREE.MeshBasicMaterial({ color: p.c || 0x4a5258 }));
+      m.rotation.x = -Math.PI / 2; m.position.set((p.x0 + p.x1) / 2, p.y || 0.02, (p.z0 + p.z1) / 2); group.add(m); break;
+    }
     case 'sign': {
       const m = textPlane(p.w, p.h, (x, w, h) => {
         x.fillStyle = p.bg; x.fillRect(0, 0, w, h); x.lineWidth = 10; x.strokeStyle = '#2a1410'; x.strokeRect(5, 5, w - 10, h - 10);
@@ -268,12 +280,19 @@ export function buildWorld(map) {
     const pit = new THREE.Mesh(new THREE.PlaneGeometry(Math.max(0.4, x1 - x0), Math.max(0.4, z1 - z0)), toon(map.fall.pit || '#1a2228'));
     pit.rotation.x = -Math.PI / 2; pit.position.set((x0 + x1) / 2, (map.fall.floor ?? -30), (z0 + z1) / 2); pit.receiveShadow = true; group.add(pit);
   }
+  if (map.fall && map.fall.slopes) {
+    const geos = map.fall.slopes.map((s) => boxGeo(s.x0, s.y0, s.z0, s.x1, s.y1, s.z1, { axis: s.axis, dir: s.dir }));
+    const slope = new THREE.Mesh(mergeGeometries(geos, false), toon(map.fall.slopeColor || '#e4ebf1'));
+    slope.receiveShadow = true; group.add(slope); meshes.push(slope);
+  }
   if (map.fall && map.fall.haze) {
+    const haze = new THREE.Group();
     const hazeMat = (o) => new THREE.MeshBasicMaterial({ color: 0xC9D3DC, transparent: true, opacity: o, depthWrite: false, side: THREE.DoubleSide });
-    for (const [yy, op, grow] of [[-10, 0.45, 8], [-18, 0.62, 18], [-26, 0.8, 30]]) {
+    for (const [yy, op, grow] of [[-8, 0.22, 6], [-16, 0.4, 16], [-24, 0.62, 28]]) {
       const h = new THREE.Mesh(new THREE.PlaneGeometry(hx * 2 + grow, hz * 2 + grow), hazeMat(op));
-      h.rotation.x = -Math.PI / 2; h.position.y = yy; group.add(h);
+      h.rotation.x = -Math.PI / 2; h.position.y = yy; haze.add(h);
     }
+    group.add(haze); group.userData.haze = haze;
   }
   if (pal.mountains) {
     const geo = new THREE.ConeGeometry(18, 46, 5); geo.translate(0, 18, 0);
@@ -292,7 +311,9 @@ export function buildWorld(map) {
   // limites do mapa (visual na altura wallH; colisão bem alta)
   const wh = map.wallH || 4, [wc1, wc2] = map.wallColor || ['#e86a5c', '#d85a4c'];
   add(-hx - 1, 0, -hz - 1, hx + 1, wh, -hz, wc1, null, WALL_COLLIDE_H); add(-hx - 1, 0, hz, hx + 1, wh, hz + 1, wc1, null, WALL_COLLIDE_H);
-  add(-hx - 1, 0, -hz, -hx, wh, hz, wc2, null, WALL_COLLIDE_H); add(hx, 0, -hz, hx + 1, wh, hz, wc2, null, WALL_COLLIDE_H);
+  if (map.fall && map.fall.openWest) solid(-hx - 1, 0, -hz, -hx, WALL_COLLIDE_H, hz); // colisor da borda oeste, sem muro visível
+  else add(-hx - 1, 0, -hz, -hx, wh, hz, wc2, null, WALL_COLLIDE_H);
+  add(hx, 0, -hz, hx + 1, wh, hz, wc2, null, WALL_COLLIDE_H);
   // caixas e rampas do mapa
   for (const o of map.boxes) {
     const [x0, y0, z0, x1, y1, z1] = o.b; if (x1 - x0 < 0.01 || y1 - y0 < 0.01 || z1 - z0 < 0.01) continue;
@@ -400,9 +421,11 @@ export function renderThumb(map, w = 320, h = 180) {
   if (!thumbRenderer) { thumbRenderer = new THREE.WebGLRenderer({ antialias: true, preserveDrawingBuffer: true }); }
   thumbRenderer.setSize(w, h, false);
   const scene = new THREE.Scene(); const hemi = new THREE.HemisphereLight(); const sun = new THREE.DirectionalLight(); scene.add(hemi, sun, sun.target);
-  applyPalette(scene, hemi, sun, map); scene.fog = null;
+  applyPalette(scene, hemi, sun, map); scene.fog = null; sun.intensity = Math.max(sun.intensity, 1.15);
   if (map.palette.stars) hemi.intensity = map.palette.hemi[2] * 2.2; // noturno: um pouco mais claro na miniatura
   const { group } = buildWorld(map); scene.add(group);
+  if (group.userData.weather) group.remove(group.userData.weather.pts);
+  if (group.userData.haze) group.remove(group.userData.haze);
   const [hx, hz] = map.size, long = Math.max(hx, hz);
   const cam = new THREE.PerspectiveCamera(36, w / h, 1, 600);
   const d = long * 1.55 + 8;

diff --git a/main.js b/main.js
@@ -673,7 +673,19 @@ function updateHud(dt) {
   $('slot1').classList.toggle('active', p.weapon === p.slots[0]); $('slot2').classList.toggle('active', p.weapon === p.slots[1]);
   $('deathpick').classList.toggle('hidden', p.alive || gameTime - p.deathAt < DEATHCAM_HOLD); crossEl.style.visibility = p.alive ? '' : 'hidden';
   $('reloadmsg').textContent = p.reloadEnd > gameTime ? (w.shellReload ? 'Recarregando... (atire para interromper)' : 'Recarregando...') : (p.mag[p.weapon] === 0 ? (p.reserve[p.weapon] ? 'Aperte R' : 'Sem munição! Pegue uma caixa') : '');
-  const left = Math.max(0, (teamMode() ? DOM.TIME_LIMIT_DOM : TIME_LIMIT) - gameTime); $('timer').textContent = `${Math.floor(left / 60)}:${String(Math.floor(left % 60)).padStart(2, '0')}`;
+  const left = Math.max(0, (teamMode() ? DOM.TIME_LIMIT_DOM : TIME_LIMIT) - gameTime);
+  const clockLabel = `${Math.floor(left / 60)}:${String(Math.floor(left % 60)).padStart(2, '0')}`;
+  $('timer').textContent = clockLabel;
+  const clocks = worldGroup && worldGroup.userData.clocks;
+  if (clocks) for (const m of clocks) {
+    if (m.userData.last === clockLabel) continue;
+    const { ctx, canvas, tex } = m.userData.clock;
+    ctx.fillStyle = '#1c242c'; ctx.fillRect(0, 0, canvas.width, canvas.height);
+    ctx.strokeStyle = '#8E2F2A'; ctx.lineWidth = 8; ctx.strokeRect(6, 6, canvas.width - 12, canvas.height - 12);
+    ctx.fillStyle = '#F2D9A0'; ctx.font = '900 36px Arial'; ctx.textAlign = 'center'; ctx.textBaseline = 'middle';
+    ctx.fillText(clockLabel, canvas.width / 2, canvas.height / 2);
+    tex.needsUpdate = true; m.userData.last = clockLabel;
+  }
   $('score').textContent = `Abates: ${p.kills} · Mortes: ${p.deaths} · K/D: ${(p.kills / Math.max(1, p.deaths)).toFixed(2)}`;
   const lead = entities.reduce((a, b) => (b.kills > a.kills ? b : a));
   $('leader').textContent = teamMode() ? `Dominação · primeiro time a ${DOM.WIN_CAPS} zonas vence` : lead.kills ? `Líder: ${lead.name} (${lead.kills}/${KILL_LIMIT})` : `Primeiro a ${KILL_LIMIT} abates vence`;

diff --git a/MAPS_NOTES.md b/MAPS_NOTES.md
@@ -60,6 +60,24 @@ Spawns: 6 no norte (z 38…52) e 6 no sul (z −58…−44), distância mínima 
 
 Linha longa medida na auditoria: cerca de 100 m (a passarela ainda está reta demais; a meta do dossiê é 40–60 m). Visão quebrada: ~22% dos pares a ≥ 10 m se enxergam (teto do teste: 30%). Ponto mais aberto: 7,2 m.
 
+## Posto Nevasca — rodada 3
+
+Coordenadas atuais, no motor (x oeste negativo, z norte positivo) e na convenção do pesquisador (x_p = x + 26, y_p = 60 − z):
+
+| Volume | motor | pesquisador |
+|---|---|---|
+| Lab | x −14…10, z 36…46 | x 12…36, y 14…24 |
+| Bloco oeste (prédio do meio) | x −16…−2, z 19…31, 2º piso +3,4 m | x 10…24, y 29…41 |
+| Bloco leste | x 1,6…19,6, z 18…32 | x 27,6…45,6, y 28…42 |
+| Sala Fria | x −2…20, z −6…16 | x 24…46, y 44…66 |
+| Corredor entre os blocos | x −2…1,6 (3,6 m) | — |
+
+Na rodada 2 o lab estava em z 48…58 (y 2…12) e a Sala Fria em z 6…28 (y 32…54), cerca de 12 m mais ao norte do que a leitura do pesquisador. Os dois, mais os prédios do meio, desceram 12 m. Alas de um andar colam o lab nos prédios do meio, e um telhado liga o bloco leste à Sala Fria, para o miolo ler como um conjunto e não como caixas soltas.
+
+Visada da rampa da torre para o sudeste: **nenhuma linha livre** (origem na rampa, y > 1, x −24…−17, z 20…46; alvo com x > 5 e z < −5). O painel de 1,1 m fecha o flanco leste; a janela de 2 m ficou no norte, entre x −21,6 e −19,6. A do corredor oeste no chão é **36 m**. A amostra do auditor (a mesma que media ~112 m na rodada 1) ainda acha uma linha de **78 m** cruzando o mapa; não é mais a reta do penhasco nem a rampa.
+
+Penhasco: o muro oeste do limite do mapa não é desenhado. Aparecem a borda de rocha de 1,15 m, o mastro com a placa e a encosta até −30 m, com pinheiros. O colisor de 4 m continua invisível, com abertura no pico da curva. Morte em y < −6.
+
 ## Posto Nevasca — rodada 2
 
 Coordenadas do pesquisador: x 0 oeste → 52 leste, y 0 lab → 120 galpão. No motor, x = x_pesquisa − 26 e z = 60 − y_pesquisa. O vão entre o lab e a Sala Fria, lido no print como y 32–48, no motor é z ≈ 30–46 (o lab está em z 48–58, y de pesquisa 2–12, não 12–28).
